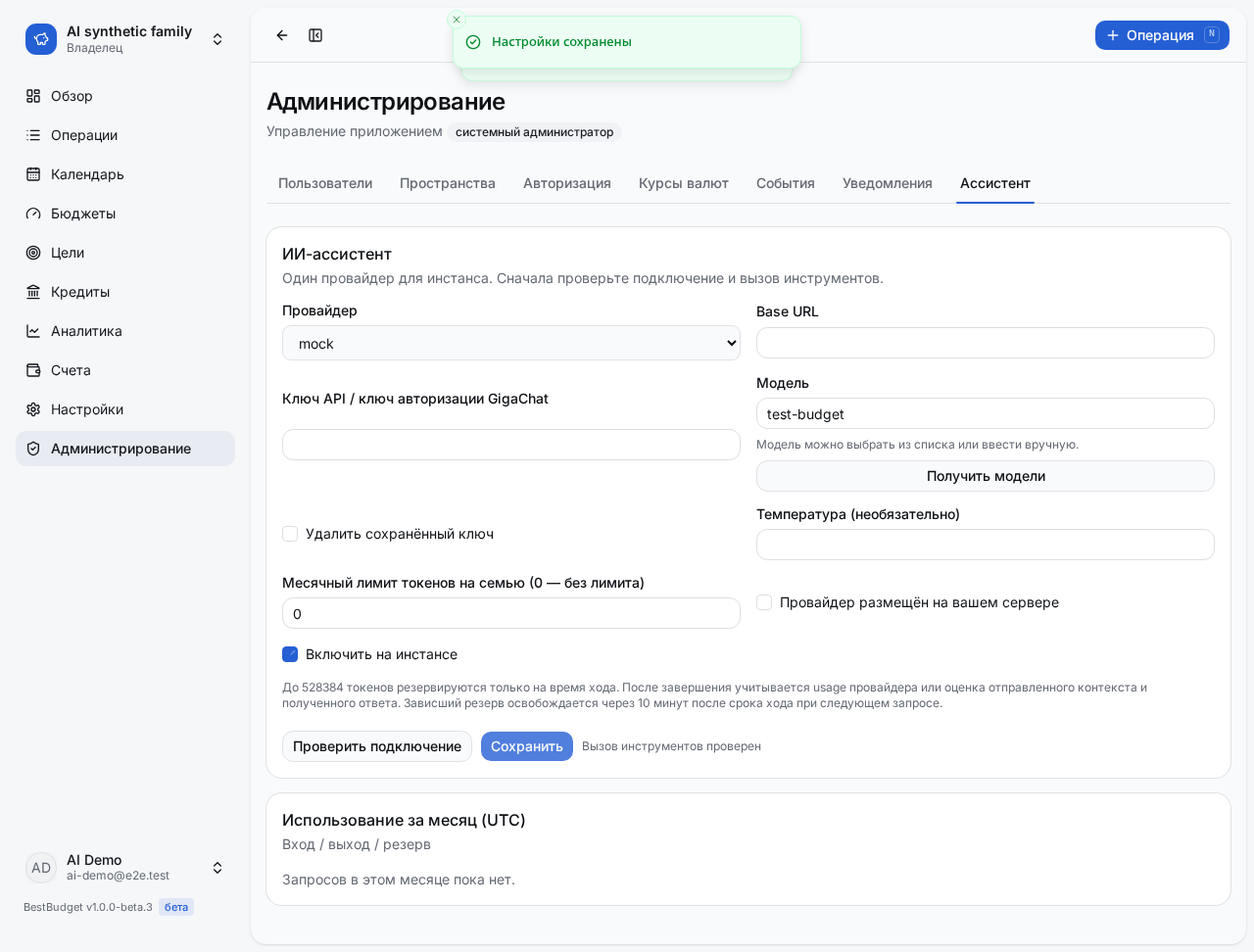
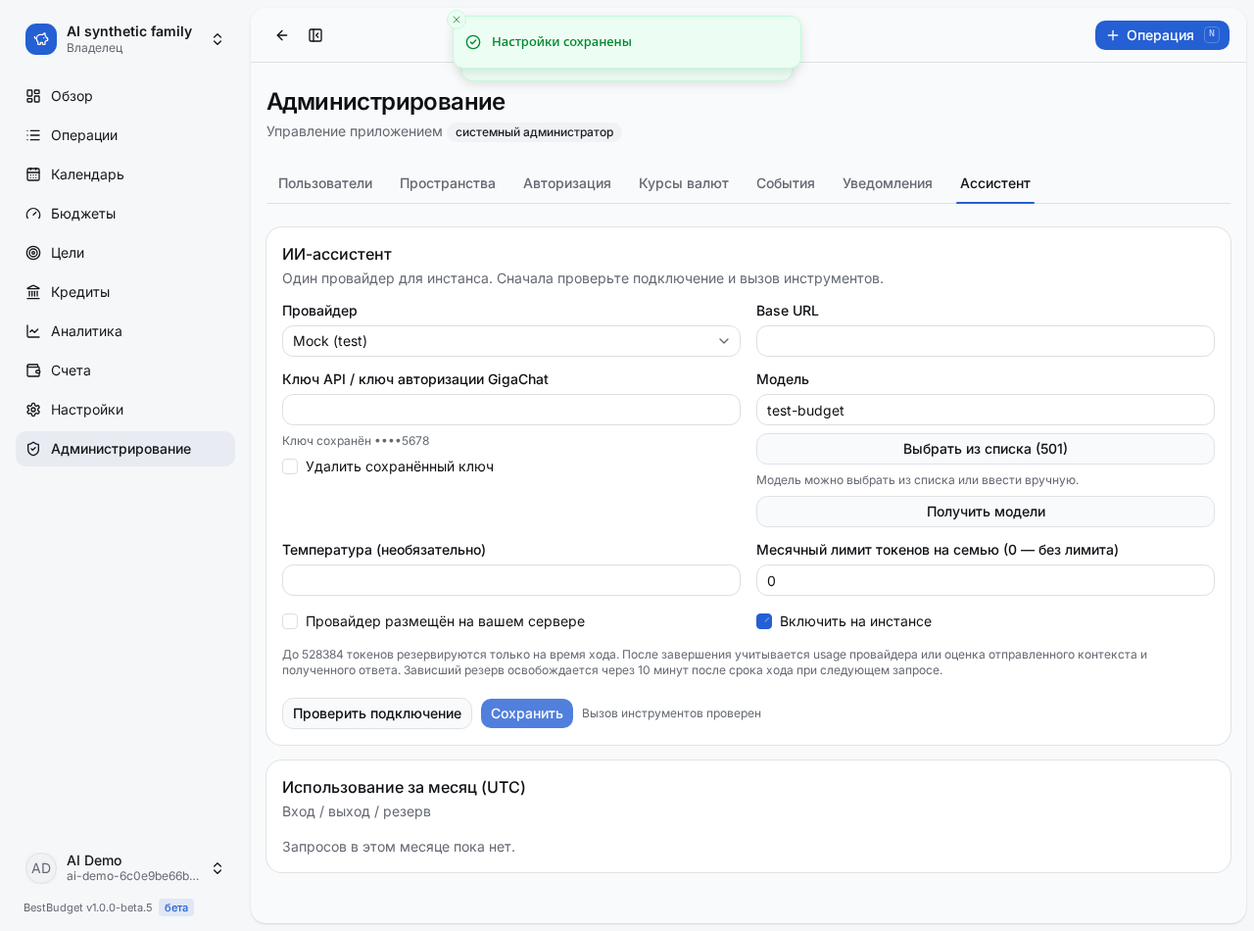
fix(ai): improve provider setup and searchable model selection

diff --git a/src/components/app/ai/admin-settings.tsx b/src/components/app/ai/admin-settings.tsx
@@ -1,7 +1,7 @@
 "use client"
 
 import { useState } from "react"
-import { useTranslations } from "next-intl"
+import { useTranslations, useFormatter } from "next-intl"
 import { saveAiSettingsAction, testAiConnectionAction, listAiModelsAction } from "@/app/actions/ai"
 import { Section } from "@/components/app/settings/section"
 import { Input } from "@/components/ui/input"
@@ -9,7 +9,12 @@ import { Button } from "@/components/ui/button"
 import { Label } from "@/components/ui/label"
 import { Checkbox } from "@/components/ui/checkbox"
 import { useAction } from "@/hooks/use-action"
-import { PROVIDERS, AI_TURN_RESERVATION, type AiProvider } from "@/domain/ai/types"
+import { AI_PRESETS, presetFor } from "@/domain/ai/presets"
+import type { AiDiagnostic } from "@/domain/ai/diagnostics"
+import type { ActionResult } from "@/server/errors"
+import { Select, SelectContent, SelectItem, SelectTrigger, SelectValue } from "@/components/ui/select"
+import { ModelPicker } from "./model-picker"
+import { AI_TURN_RESERVATION, type AiProvider } from "@/domain/ai/types"
 import type { publicAiConfig } from "@/server/ai/config"
 import type { monthlyUsage } from "@/server/ai/conversations"
 
@@ -23,6 +28,11 @@ export function AiAdminSettings({
   testBuild: boolean
 }) {
   const t = useTranslations("ai.admin")
+  const errors = useTranslations("errors")
+  const format = useFormatter()
+  const [diagnostic, setDiagnostic] = useState<AiDiagnostic | null>(null)
+  const [failure, setFailure] = useState<string | null>(null)
+  const [preset, setPreset] = useState(presetFor(config?.provider ?? "openai", config?.baseUrl ?? "https://api.openai.com/v1"))
   const { pending, run } = useAction()
   const [value, setValue] = useState({
     provider: config?.provider ?? ("openai" as AiProvider),
@@ -38,7 +48,15 @@ export function AiAdminSettings({
     gigachatAuthUrl: config?.gigachatAuthUrl ?? "https://ngw.devices.sberbank.ru:9443/api/v2/oauth",
   })
   const [models, setModels] = useState<string[]>([])
+  const presets = AI_PRESETS.filter((p) => testBuild || p.id !== "mock").map((p) => ({ ...p, value: p.id, label: p.id === "custom" ? t("customProvider") : p.label }))
+  async function diagnose<T>(action: () => Promise<ActionResult<T>>) {
+    const result = await action()
+    setDiagnostic(result.ok ? null : result.diagnostic ?? null)
+    setFailure(result.ok ? null : result.error)
+    return result
+  }
   const locked = config?.source === "env"
+  const displayedError = failure ? diagnostic : config?.lastError
   const input = () => ({
     ...value,
     version: config?.version ?? 0,
@@ -51,11 +69,14 @@ export function AiAdminSettings({
         <Input
           id={`ai-${key}`}
           type={type}
-          list={key === "model" ? "ai-models" : undefined}
           value={value[key]}
-          disabled={locked}
+          disabled={pending || locked || (key === "apiKey" && value.clearKey)}
+          aria-describedby={key === "apiKey" ? "ai-key-hint" : undefined}
           autoComplete="off"
-          onChange={(e) => setValue({ ...value, [key]: e.target.value })}
+          onChange={(e) => {
+            if (key === "baseUrl") setPreset(presetFor(value.provider, e.target.value))
+            setValue({ ...value, [key]: e.target.value, ...(key === "apiKey" && e.target.value.trim() ? { clearKey: false } : {}) })
+          }}
         />
       </div>
     )
@@ -67,41 +88,40 @@ export function AiAdminSettings({
           {locked ? <p className="text-sm text-muted-foreground sm:col-span-2">{t("env")}</p> : null}
           <div className="grid gap-2">
             <Label htmlFor="ai-provider">{t("provider")}</Label>
-            <select
-              id="ai-provider"
-              className="h-9 w-full min-w-0 rounded-md border bg-background px-3 text-sm"
-              disabled={locked}
-              value={value.provider}
-              onChange={(e) => setValue({ ...value, provider: e.target.value as AiProvider, baseUrl: "", model: "" })}
-            >
-              {[...PROVIDERS, ...(testBuild ? ["mock"] : [])].map((p) => (
-                <option key={p}>{p}</option>
-              ))}
-            </select>
+            <Select disabled={pending || locked} value={preset} items={presets} onValueChange={(id) => {
+              const next = presets.find((p) => p.id === id)
+              if (!next) return
+              setPreset(next.id)
+              setModels([])
+              setValue({ ...value, provider: next.provider, baseUrl: next.baseUrl, model: "", selfHosted: "selfHosted" in next && next.selfHosted === true })
+            }}>
+              <SelectTrigger id="ai-provider" className="w-full min-w-0"><SelectValue /></SelectTrigger>
+              <SelectContent>{presets.map((p) => <SelectItem key={p.id} value={p.id}>{p.label}</SelectItem>)}</SelectContent>
+            </Select>
           </div>
           {textField("baseUrl", t("baseUrl"))}
-          {textField("apiKey", t("key"), "password")}
+          <div className="grid content-start gap-2">
+            {textField("apiKey", t("key"), "password")}
+            <p id="ai-key-hint" className="text-xs text-muted-foreground">
+              {value.clearKey ? t("keyRemovalHint") : config?.hasKey ? t("keyStored", { suffix: config.keyLast4 }) : t("keyMissing")}
+            </p>
+            <label className="flex items-center gap-2 text-sm">
+              <Checkbox checked={value.clearKey} disabled={pending || locked} onCheckedChange={(checked) => setValue({ ...value, clearKey: checked, ...(checked ? { apiKey: "" } : {}) })} />
+              {t("clearKey")}
+            </label>
+          </div>
           <div className="grid gap-2">
             {textField("model", t("model"))}
-            <datalist id="ai-models">
-              {models.map((m) => (
-                <option key={m} value={m} />
-              ))}
-            </datalist>
+            {models.length ? <ModelPicker disabled={pending || locked} models={models} onChange={(model) => setValue({ ...value, model })} /> : null}
             <p className="text-xs text-muted-foreground">{t("manualModel")}</p>
             <Button
               variant="outline"
               disabled={pending || locked}
-              onClick={() => run(() => listAiModelsAction(input()), { onSuccess: setModels })}
+              onClick={() => run(() => diagnose(() => listAiModelsAction(input())), { onSuccess: setModels })}
             >
               {t("loadModels")}
             </Button>
           </div>
-          {config?.hasKey ? <p className="text-xs text-muted-foreground">{t("keyStored")}</p> : null}
-          <label className="flex items-center gap-2 text-sm">
-            <Checkbox checked={value.clearKey} disabled={locked} onCheckedChange={(checked) => setValue({ ...value, clearKey: checked })} />
-            {t("clearKey")}
-          </label>
           {textField("temperature", t("temperature"), "number")}
           <div className="grid gap-2">
             <Label htmlFor="ai-limit">{t("limit")}</Label>
@@ -110,7 +130,7 @@ export function AiAdminSettings({
               type="number"
               min={0}
               value={value.monthlyTokenLimit}
-              disabled={locked}
+              disabled={pending || locked}
               onChange={(e) => setValue({ ...value, monthlyTokenLimit: Number(e.target.value) })}
             />
           </div>
@@ -118,17 +138,12 @@ export function AiAdminSettings({
             <>
               <div className="grid gap-2">
                 <Label htmlFor="ai-scope">{t("scope")}</Label>
-                <select
-                  id="ai-scope"
-                  className="h-9 min-w-0 rounded-md border bg-background px-3 text-sm"
-                  disabled={locked}
-                  value={value.gigachatScope}
-                  onChange={(e) => setValue({ ...value, gigachatScope: e.target.value as typeof value.gigachatScope })}
-                >
-                  {["GIGACHAT_API_PERS", "GIGACHAT_API_B2B", "GIGACHAT_API_CORP"].map((scope) => (
-                    <option key={scope}>{scope}</option>
-                  ))}
-                </select>
+                <Select disabled={pending || locked} value={value.gigachatScope}
+                  items={["GIGACHAT_API_PERS", "GIGACHAT_API_B2B", "GIGACHAT_API_CORP"].map((scope) => ({ value: scope, label: scope }))}
+                  onValueChange={(scope) => scope && setValue({ ...value, gigachatScope: scope as typeof value.gigachatScope })}>
+                  <SelectTrigger id="ai-scope" className="w-full min-w-0"><SelectValue /></SelectTrigger>
+                  <SelectContent>{["GIGACHAT_API_PERS", "GIGACHAT_API_B2B", "GIGACHAT_API_CORP"].map((scope) => <SelectItem key={scope} value={scope}>{scope}</SelectItem>)}</SelectContent>
+                </Select>
               </div>
               {textField("gigachatAuthUrl", t("authUrl"))}
             </>
@@ -136,28 +151,39 @@ export function AiAdminSettings({
           <label className="flex items-center gap-2 text-sm">
             <Checkbox
               checked={value.selfHosted}
-              disabled={locked}
+              disabled={pending || locked}
               onCheckedChange={(checked) => setValue({ ...value, selfHosted: checked })}
             />
             {t("selfHosted")}
           </label>
           <label className="flex items-center gap-2 text-sm">
-            <Checkbox checked={value.enabled} disabled={locked} onCheckedChange={(checked) => setValue({ ...value, enabled: checked })} />
+            <Checkbox checked={value.enabled} disabled={pending || locked} onCheckedChange={(checked) => setValue({ ...value, enabled: checked })} />
             {t("enabled")}
           </label>
           <p className="text-xs text-muted-foreground sm:col-span-2">{t("quotaHint", { tokens: AI_TURN_RESERVATION })}</p>
         </div>
         <div className="mt-5 flex flex-wrap items-center gap-2">
-          <Button variant="outline" disabled={pending} onClick={() => run(() => testAiConnectionAction(input()), { success: t("testOk") })}>
+          <Button variant="outline" disabled={pending} onClick={() => run(() => diagnose(() => testAiConnectionAction(input())), { success: t("testOk") })}>
             {t("test")}
           </Button>
           {!locked ? (
-            <Button disabled={pending} onClick={() => run(() => saveAiSettingsAction(input()), { success: t("saved") })}>
+            <Button disabled={pending} onClick={() => run(() => diagnose(() => saveAiSettingsAction(input())), { success: t("saved"), onSuccess: () => setValue({ ...value, apiKey: "", clearKey: false }) })}>
               {t("save")}
             </Button>
           ) : null}
           <span className="text-xs text-muted-foreground">{config?.ready ? t("ready") : t("notReady")}</span>
         </div>
+        {failure || config?.lastError ? (
+          <div role="alert" className="mt-4 min-w-0 space-y-2 rounded-lg border border-destructive/30 p-3 text-sm wrap-anywhere">
+            <p>{failure ?? (config?.lastError ? errors(config.lastError.code) : "")}</p>
+            {config?.lastError?.at && (!failure || diagnostic) ? <p className="text-xs text-muted-foreground">{t("lastError", { time: format.dateTime(new Date(config.lastError.at), { dateStyle: "short", timeStyle: "short" }) })}</p> : null}
+            {displayedError ? <details>
+              <summary className="cursor-pointer">{t("details")}</summary>
+              <p className="mt-2">{displayedError.status ? `HTTP ${displayedError.status}` : t("noHttpStatus")}</p>
+              {diagnostic?.message ? <p className="mt-1 whitespace-pre-wrap">{diagnostic.message}</p> : null}
+            </details> : null}
+          </div>
+        ) : null}
       </Section>
       <Section title={t("usage")} description={t("tokens")}>
         <ul className="divide-y">

diff --git a/e2e/ai.spec.ts b/e2e/ai.spec.ts
@@ -61,9 +61,57 @@ for (const locale of ["ru", "en"] as const)
         })
         expect(disabled.status()).toBe(404)
         await page.goto("/admin?tab=ai")
-        await page.getByLabel("Провайдер", { exact: true }).selectOption("mock")
+        await page.getByLabel("Провайдер", { exact: true }).click()
+        await page.getByRole("option", { name: "OpenRouter", exact: true }).click()
+        await expect(page.getByLabel("Base URL", { exact: true })).toHaveValue("https://openrouter.ai/api/v1")
+        await page.getByLabel("Провайдер", { exact: true }).click()
+        await page.getByRole("option", { name: "Mock (test)", exact: true }).click()
+        const keyField = page.getByLabel("Ключ API / ключ авторизации GigaChat", { exact: true })
+        await keyField.fill("synthetic-key-1234")
+        await page.getByRole("checkbox", { name: "Удалить сохранённый ключ", exact: true }).check()
+        await expect(keyField).toBeDisabled()
+        await expect(page.getByText(/Ключ будет удалён при сохранении/)).toBeVisible()
+        await page.getByRole("checkbox", { name: "Удалить сохранённый ключ", exact: true }).uncheck()
+        await keyField.fill("synthetic-key-5678")
+        await expect(page.getByRole("checkbox", { name: "Удалить сохранённый ключ", exact: true })).not.toBeChecked()
+        await page.getByLabel("Модель", { exact: true }).fill("test-budget")
+        await page.getByRole("checkbox", { name: "Включить на инстансе", exact: true }).uncheck()
+        await page.getByRole("button", { name: "Сохранить", exact: true }).click()
+        await expect(page.getByText("Ключ сохранён ••••5678", { exact: true })).toBeVisible()
+        await expect(keyField).toHaveValue("")
+        await page.getByLabel("Модель", { exact: true }).fill("test-error-401")
+        await page.getByRole("button", { name: "Проверить подключение", exact: true }).click()
+        const alert = page.getByRole("alert").filter({ hasText: "Провайдер не принял ключ" })
+        await expect(alert).toBeVisible()
+        await alert.getByText("Подробнее", { exact: true }).click()
+        await expect(alert.getByText("HTTP 401", { exact: true })).toBeVisible()
+        await expect(alert).toContainText("Synthetic provider rejection")
         await page.getByRole("button", { name: "Получить модели", exact: true }).click()
-        await expect(page.locator("#ai-models option[value=test-budget]")).toHaveCount(1)
+        await expect(alert).toBeVisible()
+        await page.setViewportSize({ width: 375, height: 812 })
+        await expect.poll(() => page.evaluate(() => document.documentElement.scrollWidth <= innerWidth)).toBe(true)
+        await screenshot(page, `${screenshots}/admin-error-ru-375.png`, true)
+        await page.reload()
+        await expect(alert).toBeVisible()
+        await alert.getByText("Подробнее", { exact: true }).click()
+        await expect(alert.getByText("HTTP 401", { exact: true })).toBeVisible()
+        await expect(alert).not.toContainText("Synthetic provider rejection")
+        await db`update users set locale = 'en' where email = ${email}`
+        await page.reload()
+        const englishAlert = page.getByRole("alert").filter({ hasText: "The provider rejected the API key" })
+        await expect(englishAlert).toBeVisible()
+        await englishAlert.getByText("Details", { exact: true }).click()
+        await expect(englishAlert.getByText("HTTP 401", { exact: true })).toBeVisible()
+        await expect.poll(() => page.evaluate(() => document.documentElement.scrollWidth <= innerWidth)).toBe(true)
+        await screenshot(page, `${screenshots}/admin-error-en-375.png`, true)
+        await db`update users set locale = 'ru' where email = ${email}`
+        await page.reload()
+        await page.setViewportSize({ width: 1280, height: 950 })
+        await page.getByRole("button", { name: "Получить модели", exact: true }).click()
+        await page.getByRole("combobox", { name: /Выбрать из списка/ }).click()
+        await page.getByRole("combobox", { name: "Поиск моделей", exact: true }).fill("499")
+        await page.getByRole("option", { name: "test-budget-499", exact: true }).click()
+        await expect(page.getByLabel("Модель", { exact: true })).toHaveValue("test-budget-499")
         await page.getByLabel("Модель", { exact: true }).fill("test-budget")
         await page.getByRole("checkbox", { name: "Включить на инстансе", exact: true }).check()
         await page.getByRole("button", { name: "Проверить подключение", exact: true }).click()

diff --git a/src/components/app/ai/model-picker.tsx b/src/components/app/ai/model-picker.tsx
@@ -1,0 +1,32 @@
+"use client"
+
+import { Combobox } from "@base-ui/react/combobox"
+import { useTranslations } from "next-intl"
+import { Button } from "@/components/ui/button"
+import { Input } from "@/components/ui/input"
+
+export function ModelPicker({ models, onChange, disabled }: { models: string[]; onChange: (value: string) => void; disabled?: boolean }) {
+  const t = useTranslations("ai.admin")
+  return (
+    <Combobox.Root<string> disabled={disabled} items={models} onValueChange={(value) => value && onChange(value)}>
+      <Combobox.Trigger aria-label={t("chooseModel", { count: models.length })} render={<Button variant="outline" className="w-full min-w-0" />}>
+        {t("chooseModel", { count: models.length })}
+      </Combobox.Trigger>
+      <Combobox.Portal>
+        <Combobox.Positioner sideOffset={4} className="z-50 w-(--anchor-width) max-w-[calc(100vw-2rem)]">
+          <Combobox.Popup className="rounded-lg border bg-popover p-2 text-popover-foreground shadow-md">
+            <Combobox.Input render={<Input aria-label={t("searchModels")} placeholder={t("searchModels")} />} />
+            <Combobox.Empty className="p-2 text-sm text-muted-foreground">{t("noModels")}</Combobox.Empty>
+            <Combobox.List className="mt-2 max-h-64 overflow-y-auto">
+              {(model: string) => (
+                <Combobox.Item key={model} value={model} className="cursor-default rounded-md px-2 py-1.5 text-sm wrap-anywhere data-highlighted:bg-accent">
+                  {model}
+                </Combobox.Item>
+              )}
+            </Combobox.List>
+          </Combobox.Popup>
+        </Combobox.Positioner>
+      </Combobox.Portal>
+    </Combobox.Root>
+  )
+}

diff --git a/src/domain/ai/presets.ts b/src/domain/ai/presets.ts
@@ -1,0 +1,19 @@
+import type { AiProvider } from "./types"
+
+export const AI_PRESETS = [
+  { id: "openai", label: "OpenAI", provider: "openai", baseUrl: "https://api.openai.com/v1" },
+  { id: "anthropic", label: "Anthropic", provider: "anthropic", baseUrl: "https://api.anthropic.com/v1" },
+  { id: "google", label: "Google Gemini", provider: "google", baseUrl: "https://generativelanguage.googleapis.com/v1beta" },
+  { id: "openrouter", label: "OpenRouter", provider: "openai_compatible", baseUrl: "https://openrouter.ai/api/v1" },
+  { id: "ollama", label: "Ollama", provider: "openai_compatible", baseUrl: "http://localhost:11434/v1", selfHosted: true },
+  { id: "lmstudio", label: "LM Studio", provider: "openai_compatible", baseUrl: "http://localhost:1234/v1", selfHosted: true },
+  { id: "yandex", label: "YandexGPT (AI Studio)", provider: "openai_compatible", baseUrl: "https://ai.api.cloud.yandex.net/v1" },
+  { id: "gigachat", label: "GigaChat", provider: "gigachat", baseUrl: "https://api.giga.chat/v1" },
+  { id: "custom", label: "", provider: "openai_compatible", baseUrl: "" },
+  { id: "mock", label: "Mock (test)", provider: "mock", baseUrl: "" },
+] satisfies { id: string; label: string; provider: AiProvider; baseUrl: string; selfHosted?: boolean }[]
+
+export function presetFor(provider: AiProvider, baseUrl: string) {
+  return AI_PRESETS.find((p) => p.provider === provider && p.baseUrl === baseUrl.replace(/\/+$/, ""))?.id ??
+    (provider === "openai_compatible" ? "custom" : provider)
+}

diff --git a/e2e/ai-review.spec.ts b/e2e/ai-review.spec.ts
@@ -55,7 +55,8 @@ for (const locale of ["ru", "en"] as const)
             await db`select u.id, m.household_id from users u join household_members m on m.user_id = u.id where u.email = ${email} and m.role = 'owner'`
           if (!owner) throw new Error("Synthetic review owner missing")
           await page.goto("/admin?tab=ai")
-          await page.getByLabel("Провайдер", { exact: true }).selectOption("mock")
+          await page.getByLabel("Провайдер", { exact: true }).click()
+          await page.getByRole("option", { name: "Mock (test)", exact: true }).click()
           await page.getByLabel("Модель", { exact: true }).fill("test-budget")
           await page.getByRole("checkbox", { name: "Включить на инстансе", exact: true }).check()
           await page.getByRole("button", { name: "Сохранить", exact: true }).click()

diff --git a/e2e/ai-interview.spec.ts b/e2e/ai-interview.spec.ts
@@ -55,7 +55,8 @@ for (const locale of ["ru", "en"] as const) {
           const [family] = await db`select id from households where name = ${familyName}`
           await expect(page.getByTestId("ai-interview-entry")).toHaveCount(0)
           await page.goto("/admin?tab=ai")
-          await page.getByLabel("Провайдер", { exact: true }).selectOption("mock")
+          await page.getByLabel("Провайдер", { exact: true }).click()
+          await page.getByRole("option", { name: "Mock (test)", exact: true }).click()
           await page.getByLabel("Модель", { exact: true }).fill("test-budget")
           await page.getByRole("checkbox", { name: "Включить на инстансе", exact: true }).check()
           await page.getByRole("button", { name: "Сохранить", exact: true }).click()

diff --git a/src/components/app/ai/chat.tsx b/src/components/app/ai/chat.tsx
@@ -365,7 +365,7 @@ export function AiChat({
             className="flex shrink-0 flex-wrap items-center justify-between gap-2 border-t px-4 py-3 text-sm text-destructive"
             data-testid="ai-error"
           >
-            <p className="min-w-0 flex-1">{t("error")}</p>
+            <p className="min-w-0 flex-1">{error?.message || t("error")}</p>
             <Button
               variant="outline"
               onClick={() => {

diff --git a/docs/ai.md b/docs/ai.md
@@ -5,12 +5,22 @@
 ## Включение
 
 1. Системный администратор открывает **Администрирование → ИИ-ассистент**: выбирает провайдера, адрес, модель, при необходимости ключ, температуру и лимит токенов.
-2. **Получить модели** запрашивает каталог провайдера. Поле модели остаётся редактируемым: можно ввести идентификатор вручную. Каталог сам по себе не подтверждает поддержку инструментов.
-3. **Проверить подключение** выполняет небольшой запрос с принудительным вызовом `connection_check`. Затем сохраните настройки с включённым флагом. При включении проверка выполняется повторно. Модель без tool calling использовать нельзя. Проверка может тарифицироваться провайдером; финансовых данных в ней нет.
+2. **Получить модели** запрашивает каталог провайдера и открывает выбор с поиском. Поле модели остаётся редактируемым: можно ввести идентификатор вручную. Каталог сам по себе не подтверждает поддержку инструментов.
+3. **Проверить подключение** выполняет небольшой запрос с вызовом `connection_check`: сначала по имени инструмента, при HTTP 400 — `required`, затем `auto` с инструкцией. Успех требует реального вызова инструмента. Затем сохраните настройки с включённым флагом. При включении проверка выполняется повторно. Модель без tool calling использовать нельзя. Проверка может тарифицироваться провайдером; финансовых данных в ней нет.
 4. Владелец семьи открывает **Настройки → Семья → ИИ для семьи**, проверяет провайдера, модель и адрес назначения, выбирает уровень данных, включает ассистента и подтверждает согласие.
 5. В навигации и на обзоре появляется **Ассистент**. Можно создать диалог, изучить расходы и применить выбранные пункты карточки.
 
 Системный администратор видит только конфигурацию и статистику токенов по семьям. Само администрирование не даёт доступа к финансовым данным чужой семьи. Доступные в проекте семейные роли — owner/admin/member; ИИ использует существующую матрицу `can(...)`, отдельную роль viewer эта фаза не вводит.
+
+## Ключ и диагностика подключения
+
+В форме есть пресеты OpenAI, Anthropic, Google Gemini, OpenRouter, Ollama, LM Studio, YandexGPT (AI Studio), GigaChat и произвольного OpenAI-совместимого сервера. Пресет заполняет адрес API; модель можно выбрать из каталога или ввести вручную. Для YandexGPT используйте URI модели `gpt://<folder_id>/yandexgpt/latest` согласно [документации AI Studio](https://aistudio.yandex.ru/ru/docs/ai-studio/operations/generation/completions-basic). Локальные адреса Ollama и LM Studio относятся к серверу BestBudget, а внутри контейнера — к самому контейнеру.
+
+Пустое поле ключа сохраняет существующий ключ. Непустой новый ключ имеет приоритет над флагом удаления на сервере. В форме флаг удаления очищает и блокирует поле; чтобы ввести новый ключ, снимите флаг. Состояние показывает только последние четыре символа из отдельного поля БД. Для старого зашифрованного ключа суффикс заполняется один раз при открытии настроек на сервере; полный ключ в браузер не передаётся.
+
+Проверка подключения, каталог моделей и чат различают отказ ключа (401/403), отсутствие кредитов (402), неизвестную модель/адрес (404), отсутствие инструментов (400 с признаками tools/tool_choice), лимит запросов (429), сбой провайдера (5xx) и сетевые ошибки DNS/TLS/таймаута. В админке **Подробнее** показывает HTTP-статус и очищенное сообщение провайдера до 300 символов. Это сообщение доступно только в ответе действия; после перезагрузки остаются код, статус и время последней ошибки. Успешная проверка или загрузка каталога очищает ошибку. Конфигурация и проверка работоспособности при неудачной попытке не перезаписываются.
+
+Тела ошибок, ключи и заголовки не попадают в журналы: диагностика логирует только код и HTTP-статус. В чат передаётся локализованное сообщение категории без подробностей провайдера. OpenRouter получает опциональные `HTTP-Referer` из `APP_URL` и `X-Title: BestBudget` согласно [документации OpenRouter](https://openrouter.ai/docs/community/frameworks).
 
 ## Конфигурация через ENV
 

diff --git a/CHANGELOG.md b/CHANGELOG.md
@@ -2,6 +2,14 @@
 
 Формат — [Keep a Changelog](https://keepachangelog.com/ru/1.1.0/), версии — [SemVer](https://semver.org/lang/ru/).
 
+## [Unreleased]
+
+### Исправлено
+
+- Подключение ИИ: новый ключ имеет приоритет над удалением, форма показывает сохранённый суффикс и блокирует ввод при удалении. Миграция `0014` добавляет nullable-поля без изменения существующих ключей и финансовых данных.
+- Понятные ошибки провайдера в админке и чате; безопасные подробности с HTTP-статусом, код/статус/время последней ошибки в настройках. Логи не содержат тело ответа или ключ.
+- Совместимая проверка вызова инструментов с fallback `tool → required → auto`, заголовки OpenRouter, пресеты провайдеров и поиск по каталогу моделей с сохранением ручного ввода.
+
 ## [1.0.0-beta.5] — 2026-10-25
 
 ### Добавлено
